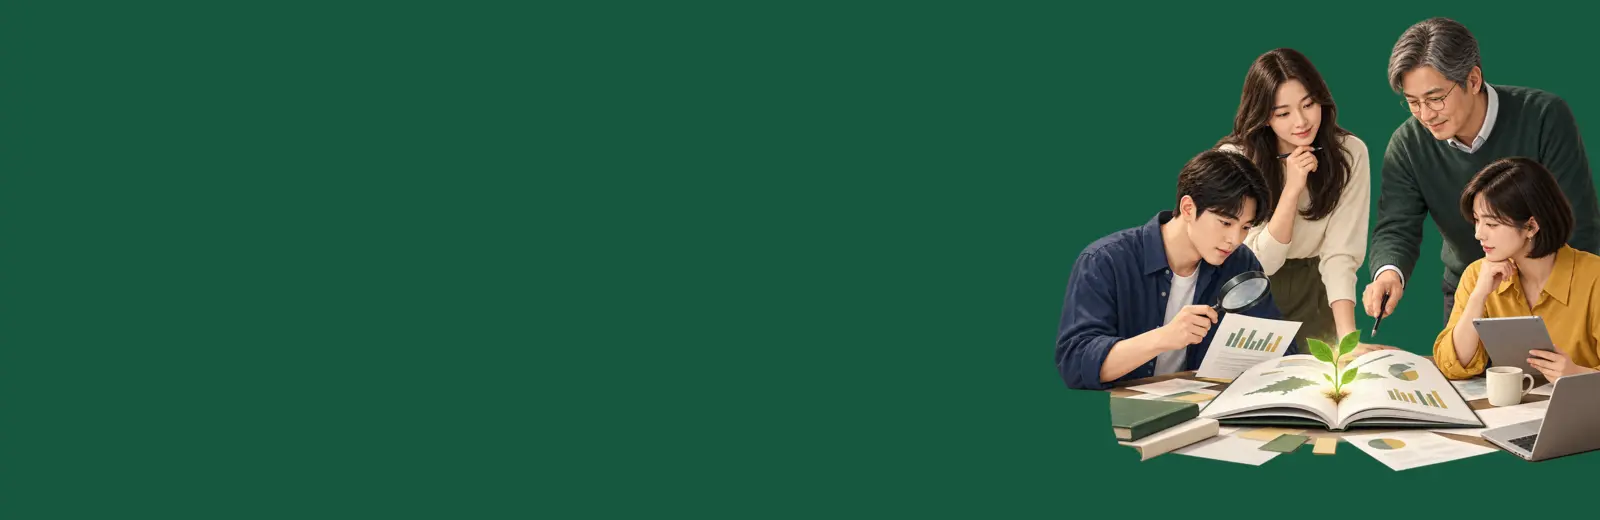
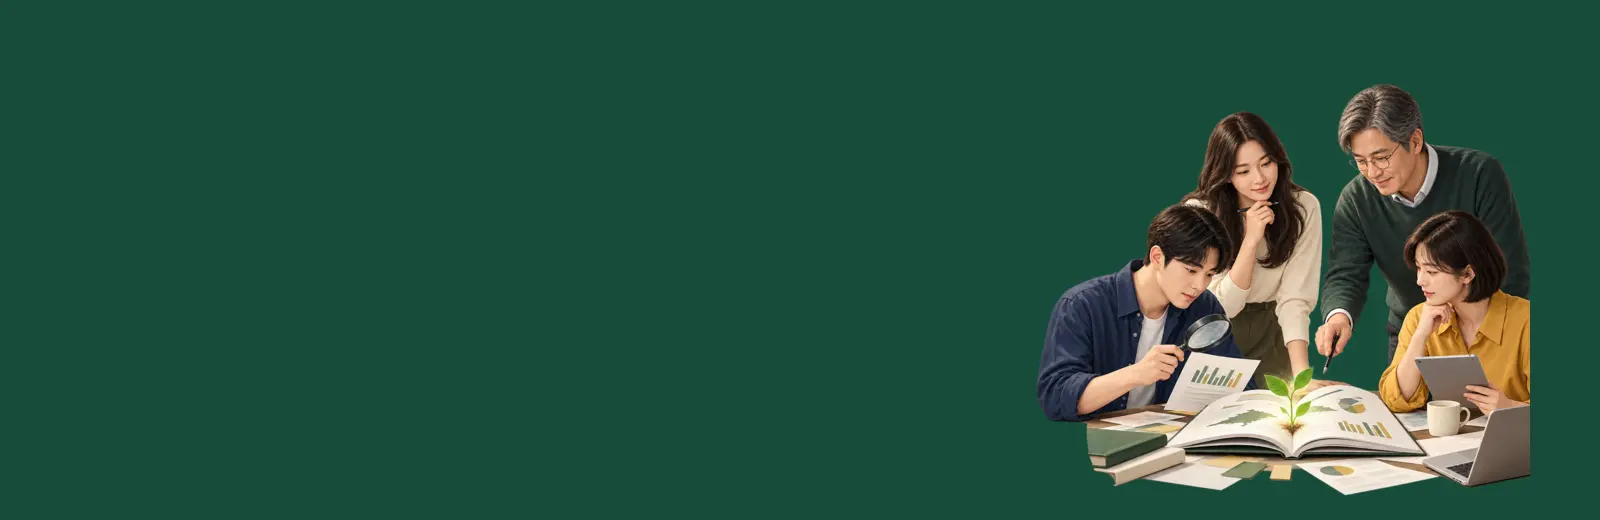
Match briefing hero color and image margins

Changed region(s): [[0.625, 0.0308, 1.0, 0.9538]]

diff --git a/src/pages/Briefings.tsx b/src/pages/Briefings.tsx
@@ -13,7 +13,7 @@ export default function Briefings() {
   return <section className="section-band bg-paper">
     <div className="container-page">
       <div
-        className="briefing-hero-banner min-h-[360px] overflow-hidden rounded-xl bg-green-deep bg-[length:auto_100%] bg-no-repeat px-6 py-10 text-white sm:min-h-[390px] sm:px-10 sm:py-12 lg:min-h-[410px] lg:px-14 lg:py-14"
+        className="min-h-[360px] overflow-hidden rounded-xl bg-green-deep bg-[length:auto_100%] bg-right-bottom bg-no-repeat px-6 py-10 text-white sm:min-h-[390px] sm:px-10 sm:py-12 lg:min-h-[410px] lg:px-14 lg:py-14"
         style={{ backgroundImage: `url(${import.meta.env.BASE_URL}images/briefings/citizen-briefing-hero-flat.webp)` }}
         role="img"
         aria-label="시민들이 자료와 그래프를 함께 살펴보며 공공의 문제를 토론하는 모습"

diff --git a/src/styles/index.css b/src/styles/index.css
@@ -35,16 +35,6 @@ button, input, textarea { font: inherit; }
 .hero-art-slide { min-height: 0; aspect-ratio: 756 / 331; align-self: start; background: #eef1e8; }
 .hero-art-slide::before { display: none; }
 
-.briefing-hero-banner { background-position: right 1.5rem bottom; }
-
-@media (min-width: 640px) {
-  .briefing-hero-banner { background-position: right 2.5rem bottom; }
-}
-
-@media (min-width: 1024px) {
-  .briefing-hero-banner { background-position: right 3.5rem bottom; }
-}
-
 @media (max-width: 640px) {
   .hero-slide:not(.hero-art-slide) { min-height: 560px; }
   .hero-art-slide { min-height: 440px; aspect-ratio: auto; }
